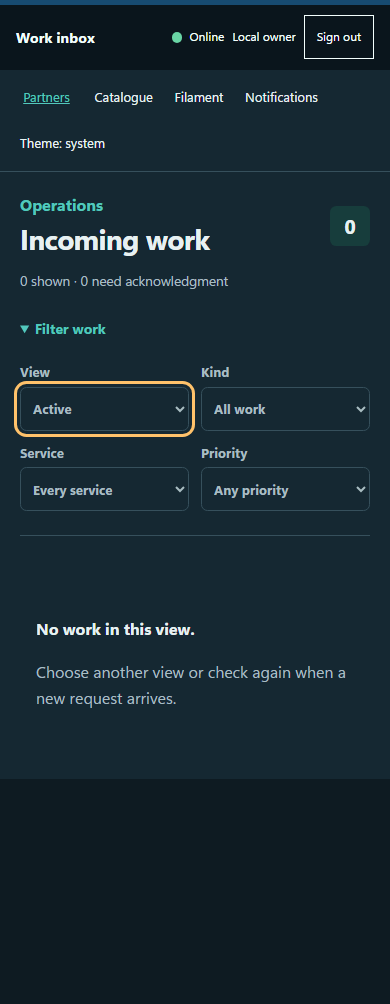
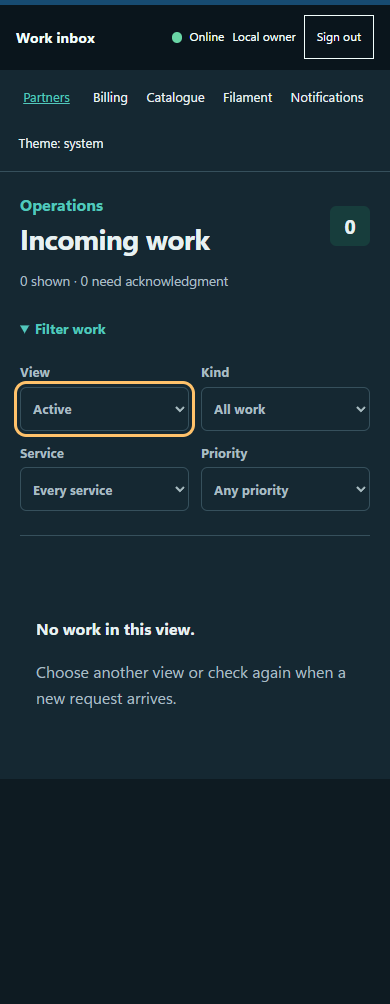
docs(billing): record zero-return guidance and refreshed verification

Changed region(s): [[0.0615, 0.0926, 0.9231, 0.1544]]

diff --git a/docs/verification/2026-11-24-invoice-tracking.md b/docs/verification/2026-11-24-invoice-tracking.md
@@ -3,12 +3,13 @@
 This record covers pre-release checks for [PR #93](https://github.com/JerrettDavis/3dprint4me/pull/93). Production acceptance and final CI results must be recorded on that PR before completion; a rehearsal is not a deployment.
 
 - Owner confirmed monthly OKTAP filing. The OTC Businesses Help Center establishes the 20th of the following month and the next business day for weekends/observed state holidays. First reporting period and applicable holiday calendar remain explicit activation inputs.
+- The current OTC STS-20002-C instructions (PDF page 3, “Who Must File”) were downloaded and inspected: a return is required every period even when no amount is taxable or no tax is due. The runbook links that primary source; account-specific requirements and the first period still require confirmation.
 - A read-only run of the new provider reader using the existing private server credential returned two scoped fabrication invoices: one paid, one draft, one payment allocation and USD only. No customer identities, invoice capability URLs or credentials are included here.
 - Fresh review found four tax-reminder/payment-evidence issues. Regression tests reproduced them; fixes were independently reviewed with no remaining concrete defects in those fixes. A separate follow-up verified tracking activation does not enable website draft creation.
 - Local full-suite unit stage passed 1,635 tests. The subsequently added activation-isolation test also passed. The browser stage finished with 623 passed, seven skipped and one narrow monospace workspace-layout failure; the pipeline stopped before audit. The failure was reproduced: the Billing control pushed the 320px toolbar onto a third row. Reducing mobile horizontal button padding preserved 44px touch targets and restored two rows. All four task-hierarchy cases and seven Billing/invoicing browser regressions then passed. Static validation and the separate UX audit passed (289/289 checks).
 - Real PostgreSQL 18 integration passed: runtime least privilege, private snapshot/command/outbox dump and restore, expired notification lease recovery, stable delivery identity and no historical payment replay.
-- Captured 270 screenshots in Edge, including desktop/390px light/dark billing overview and tax actions. Inspected the preview board in slices and the focused Billing images. The two independent tax acknowledgements remain visible on mobile. After the toolbar fix, 32 broader workspace/PWA/portal browser checks passed, and a fresh 320px monospace screenshot confirmed all six controls and the complete first request remain visible. The full screenshot refresh is in progress.
+- Captured 270 screenshots in Edge, including desktop/390px light/dark billing overview and tax actions. Inspected the preview board in slices and the focused Billing images. The two independent tax acknowledgements remain visible on mobile. After the toolbar fix, 32 broader workspace/PWA/portal browser checks passed, and a fresh 320px monospace screenshot confirmed all six controls and the complete first request remain visible. The full 270-screenshot refresh then passed; the workspace captures, mobile Billing capture and refreshed board slices were inspected.
[1 lines of base64/hex data omitted]
 - Handbook build and checks passed: 116 HTML pages, 714 search entries, all local links/assets and documented BDD references. Generated handbook output was retained outside storefront output after checks to avoid changing the storefront asset hash.
 
-Pending release gates: terminal full suite/audit, green PR CI against current main, reviewed native checkpoint/deploy, operator deployment, Home Assistant setup/controlled alert and live freshness/failure checks. New Home Assistant credential approval and the first reporting period are still pending owner input. No real invoice was changed and no tax return/payment was submitted.
+Pending release gates: green full-suite PR CI against current main, reviewed native checkpoint/deploy, operator deployment, Home Assistant setup/controlled alert and live freshness/failure checks. New Home Assistant credential approval and the first reporting period are still pending owner input. No real invoice was changed and no tax return/payment was submitted.

diff --git a/docs/INVOICE-TRACKING.md b/docs/INVOICE-TRACKING.md
@@ -12,7 +12,7 @@ Private migration `020_invoice_tracking.sql` adds state, command audit receipts 
 
 The owner confirmed monthly filing on November 24, 2026. The [Oklahoma Tax Commission Businesses Help Center](https://oklahoma.gov/tax/helpcenter/businesses.html), inspected that day under “When are the returns due?” and “When a due date falls on a weekend or holiday, when is the report due?”, specifies the 20th of the following month and the next business day for weekends/observed state holidays. November 2026 therefore falls due December 21, 2026.
 
-Before activation, confirm the first reporting period, observed state holidays and account-specific requirements, including zero returns. Enter the evidence reference in Billing settings. An empty holiday list explicitly confirms there are no applicable additional observed holidays; it is not an automatically fetched calendar. Review/extend the calendar before each new year. Existing period deadlines and acknowledgements survive settings changes. Overlapping schedule changes are rejected. Period history is bounded to 120 periods and requires an operational review before extending further.
+The current [STS-20002-C sales-tax return instructions](https://oklahoma.gov/content/dam/ok/en/tax/documents/forms/businesses/general/STS-20002-C.pdf) (PDF page 3, “Who Must File”) require a return every period even when no amount is taxable or no tax is due. Before activation, confirm the first reporting period, observed state holidays and any account-specific requirements. Enter the evidence reference in Billing settings. An empty holiday list explicitly confirms there are no applicable additional observed holidays; it is not an automatically fetched calendar. Review/extend the calendar before each new year. Existing period deadlines and acknowledgements survive settings changes. Overlapping schedule changes are rejected. Period history is bounded to 120 periods and requires an operational review before extending further.
 
 Filing and tax payment acknowledgements are separate audited owner actions. Customer invoice payment does not acknowledge either. Corrections clear one acknowledgement with an audit reason and resume its reminders. Reminder stages are seven days ahead, one day ahead, due date and weekly overdue. No OKTAP credentials are stored and no return/payment is submitted automatically.
 
